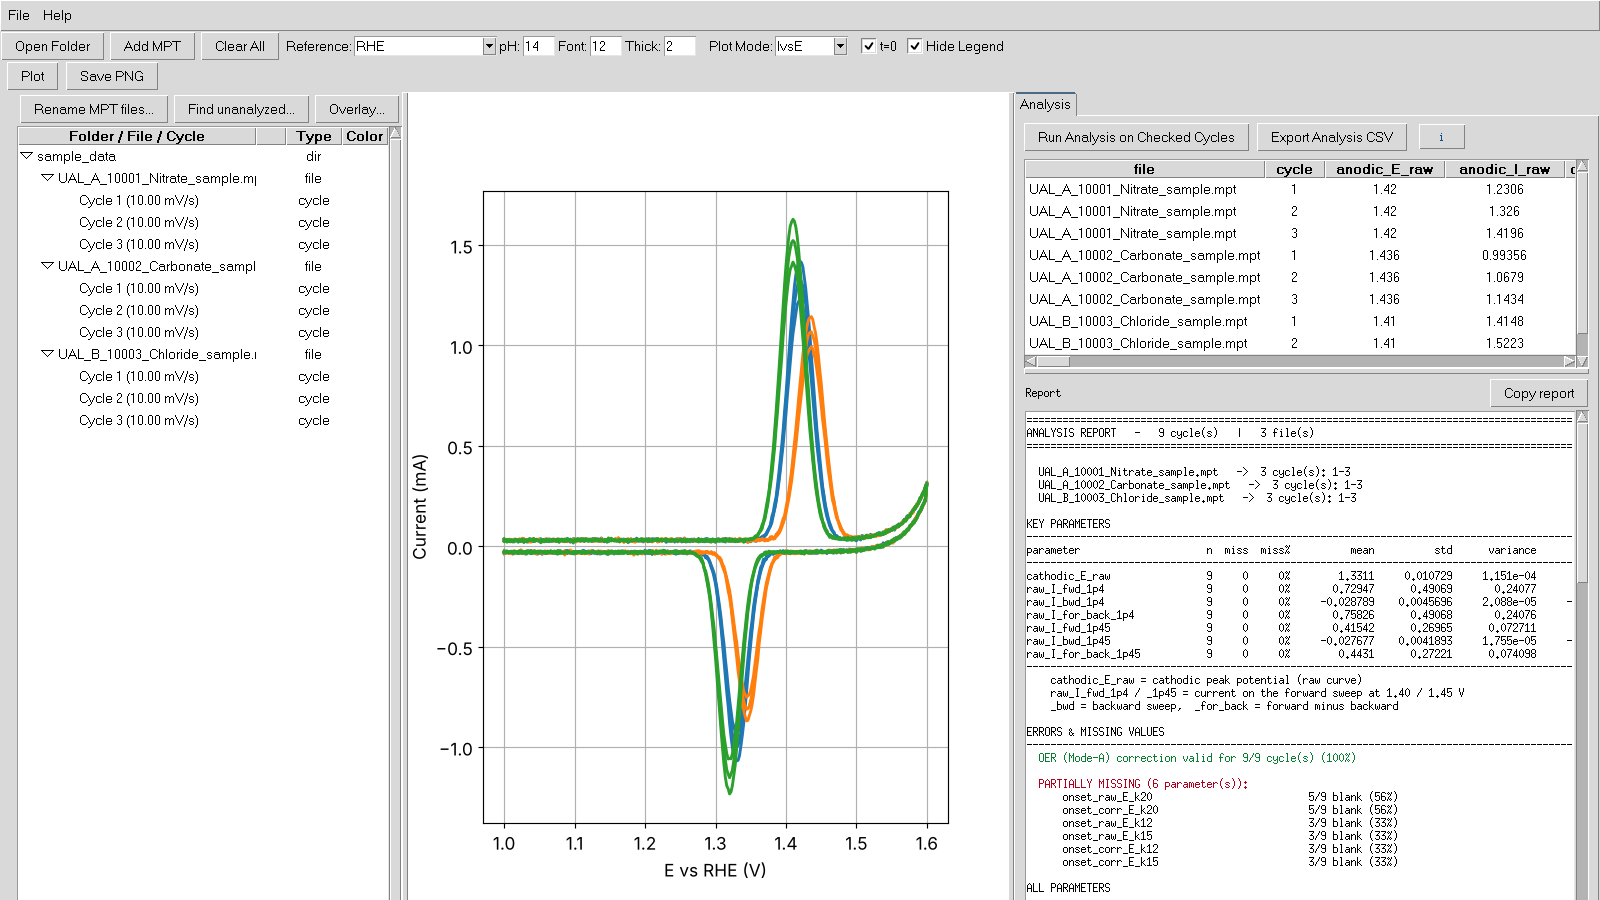
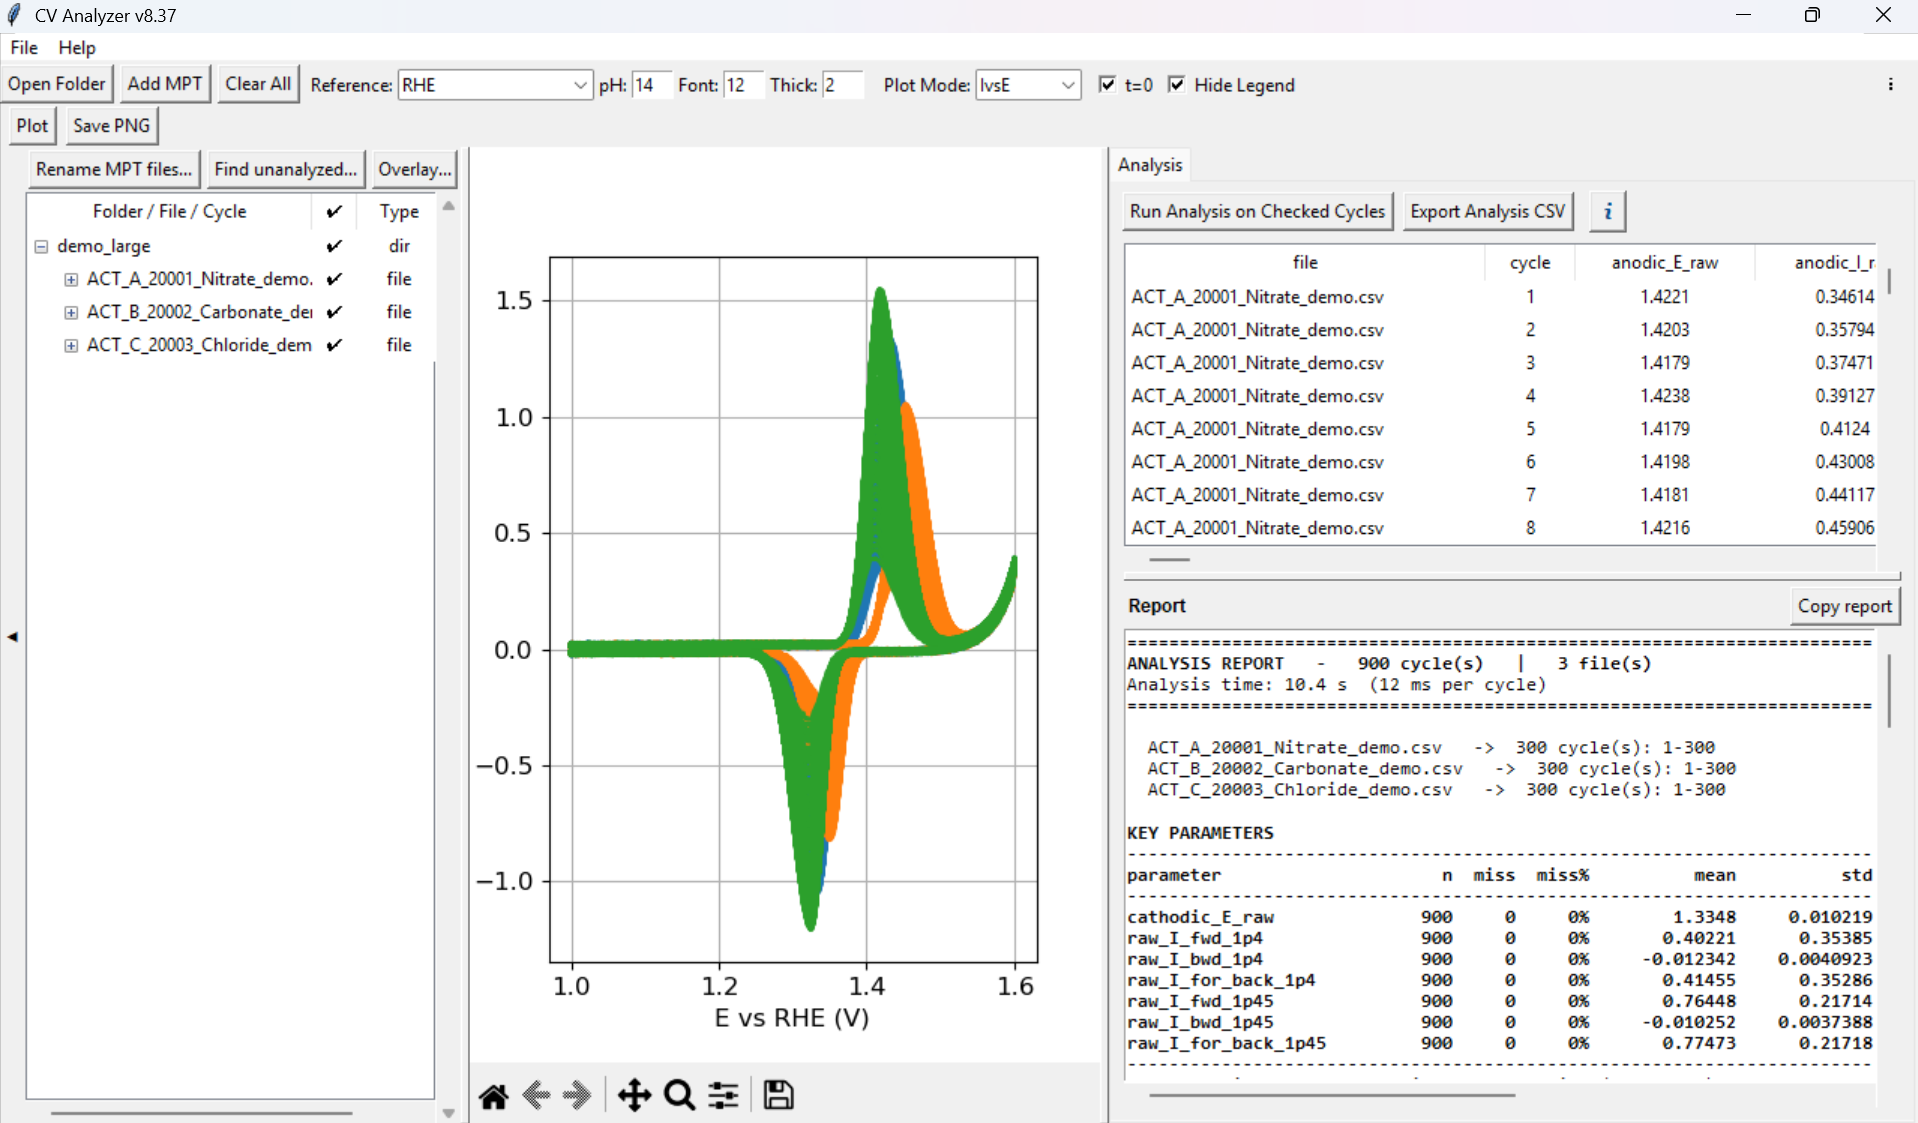
New main-window screenshot: 900 cycles from the demo set, with analysis time
Claude-Session: https://claude.ai/code/session_01BkxjhtW56EjucoyaSjrq6e

diff --git a/README.md b/README.md
@@ -9,7 +9,7 @@ An electrochemistry experiment can produce thousands of CV cycles. This pipeline
 | 1. Extract | **CV Analyzer** (`analyzer/`) | Reads EC-Lab `.mpt` files, or `.mpr` files converted with [MPR Converter](https://mpr-converter.vercel.app), and turns every cycle into one row of metrics: peaks, charge, OER-corrected values, onsets, fixed-potential currents. Exports CSV. |
 | 2. Compare | **CV Explorer** | Plots the exported parameters against cycle number and other scales, for several anions side by side. Being prepared for release. |
 
-![CV Analyzer main window](docs/screenshot_main.png)
+![CV Analyzer main window: 900 synthetic cycles from three files, analyzed in about 10 s](docs/screenshot_main.png)
 
 ## Stage 1: CV Analyzer
 
